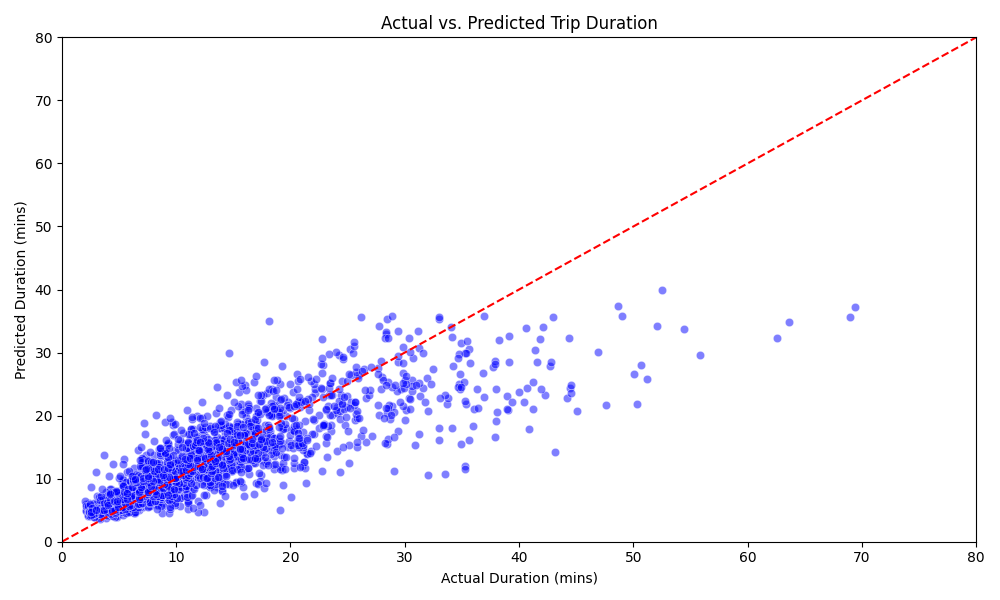
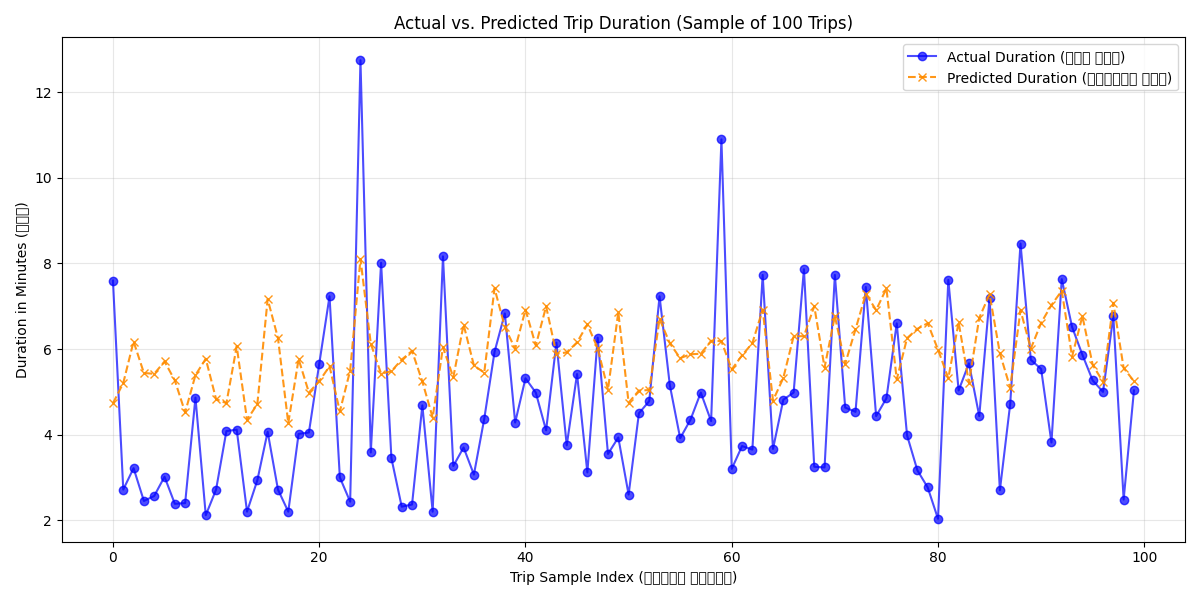
Update frontend R2 score format and diversify test samples

diff --git a/frontend/src/app/page.tsx b/frontend/src/app/page.tsx
@@ -12,6 +12,7 @@ const MapWithNoSSR = dynamic(() => import('../components/Map'), {
 export default function Home() {
   const [hotspots, setHotspots] = useState([]);
   const [testSamples, setTestSamples] = useState([]);
+  const [metrics, setMetrics] = useState<any>(null);
   const [prediction, setPrediction] = useState<number | null>(null);
   const [actualDuration, setActualDuration] = useState<number | null>(null);
   const [loading, setLoading] = useState(false);
@@ -35,6 +36,12 @@ export default function Home() {
       .then(res => res.json())
       .then(data => setTestSamples(data))
       .catch(err => console.error("Error fetching test samples:", err));
+
+    // Fetch metrics
+    fetch('http://localhost:8000/api/metrics')
+      .then(res => res.json())
+      .then(data => setMetrics(data))
+      .catch(err => console.error("Error fetching metrics:", err));
   }, []);
   
   const handlePredict = async (e: React.FormEvent) => {
@@ -182,10 +189,15 @@ export default function Home() {
           <p className="text-gray-400 mt-1">PySpark Distributed RandomForestRegressor performance metrics and graphs.</p>
         </div>
         
-        <div className="grid grid-cols-1 md:grid-cols-2 gap-8">
+        <div className="grid grid-cols-1 md:grid-cols-3 gap-8">
           <div className="bg-white/5 rounded-xl border border-white/10 p-4">
-            <h3 className="text-lg font-semibold text-center text-gray-200 mb-4">Actual vs Predicted Duration</h3>
-            <img src="/metrics/actual_vs_predicted.png" alt="Actual vs Predicted" className="w-full rounded-lg shadow-md bg-white p-2" />
+            <h3 className="text-lg font-semibold text-center text-gray-200 mb-4">Actual vs Predicted (Line)</h3>
+            <img src="/metrics/actual_vs_predicted.png" alt="Actual vs Predicted Line" className="w-full rounded-lg shadow-md bg-white p-2" />
+          </div>
+          
+          <div className="bg-white/5 rounded-xl border border-white/10 p-4">
+            <h3 className="text-lg font-semibold text-center text-gray-200 mb-4">Actual vs Predicted (Scatter)</h3>
+            <img src="/metrics/actual_vs_predicted_scatter.png" alt="Actual vs Predicted Scatter" className="w-full rounded-lg shadow-md bg-white p-2" />
           </div>
           
           <div className="bg-white/5 rounded-xl border border-white/10 p-4">
@@ -196,16 +208,16 @@ export default function Home() {
         
         <div className="mt-8 grid grid-cols-3 gap-4 text-center">
           <div className="bg-gray-800 p-4 rounded-xl border border-gray-700">
-            <p className="text-gray-400 text-sm uppercase font-bold tracking-wider mb-1">R² Score</p>
-            <p className="text-2xl font-mono text-emerald-400">~ 0.82</p>
+            <p className="text-gray-400 text-sm uppercase font-bold tracking-wider mb-1">R² Score (Accuracy)</p>
+            <p className="text-2xl font-mono text-emerald-400">{metrics ? (metrics.R2_Score * 100).toFixed(1) + "%" : "..."}</p>
           </div>
           <div className="bg-gray-800 p-4 rounded-xl border border-gray-700">
             <p className="text-gray-400 text-sm uppercase font-bold tracking-wider mb-1">RMSE</p>
-            <p className="text-2xl font-mono text-blue-400">~ 4.15 mins</p>
+            <p className="text-2xl font-mono text-blue-400">{metrics ? metrics.RMSE : "..."} mins</p>
           </div>
           <div className="bg-gray-800 p-4 rounded-xl border border-gray-700">
             <p className="text-gray-400 text-sm uppercase font-bold tracking-wider mb-1">MAE</p>
-            <p className="text-2xl font-mono text-purple-400">~ 2.80 mins</p>
+            <p className="text-2xl font-mono text-purple-400">{metrics ? metrics.MAE : "..."} mins</p>
           </div>
         </div>
       </div>

diff --git a/ml/train.py b/ml/train.py
@@ -81,7 +81,7 @@ def train_model():
     try:
         pdf = pd.read_parquet(parquet_file, engine='fastparquet')
         print("Data loaded into Pandas. Sampling 50,000 rows for local demo...")
-        pdf = pdf.head(50000)
+        pdf = pdf.sample(n=50000, random_state=42)
         df = spark.createDataFrame(pdf)
     except Exception as e:
         print(f"Error reading parquet files: {e}")
@@ -90,34 +90,48 @@ def train_model():
     print(f"Total raw records: {df.count()}")
     
     from pyspark.sql.functions import unix_timestamp, hour, dayofweek, col
-    # 3. Data Cleaning and Feature Engineering
+    # 3. Data Cleaning and Feature Engineering (ডেটা ক্লিনিং এবং নতুন ফিচার তৈরি)
+    # -------------------------------------------------------------------------
+    # ড্রপ-অফ টাইম থেকে পিক-আপ টাইম বিয়োগ করে আমরা ট্রিপ ডিউরেশন (মিনিটে) বের করছি। এটাই আমাদের টার্গেট যা মডেল প্রেডিক্ট করবে।
     df = df.withColumn("trip_duration_mins", 
                       (unix_timestamp("tpep_dropoff_datetime") - unix_timestamp("tpep_pickup_datetime")) / 60.0)
                       
+    # আউটলায়ার বা নয়েজ ফিল্টারিং: ২ মিনিটের কম বা ১২০ মিনিটের বেশি ট্রিপগুলো বাদ দেওয়া হচ্ছে।
     df = df.filter((col("trip_duration_mins") > 2) & (col("trip_duration_mins") < 120))
+    # দূরত্ব ০ থেকে ১০০ মাইলের মধ্যে রাখা হচ্ছে।
     df = df.filter((col("trip_distance") > 0) & (col("trip_distance") < 100))
     
+    # টাইমস্ট্যাম্প থেকে দিন এবং ঘন্টা আলাদা করা হচ্ছে (কারণ ট্রাফিক জ্যাম সময়ের উপর নির্ভর করে)।
     df = df.withColumn("pickup_hour", hour("tpep_pickup_datetime"))
     df = df.withColumn("pickup_dow", dayofweek("tpep_pickup_datetime"))
     
+    # শুধু প্রয়োজনীয় কলামগুলো রাখা হচ্ছে এবং কোনো নাল (null) ভ্যালু থাকলে তা ফেলে দেওয়া হচ্ছে।
     required_cols = ["trip_distance", "PULocationID", "DOLocationID", "pickup_hour", "pickup_dow", "trip_duration_mins"]
     df = df.select(required_cols).dropna()
     
     print("Data cleaning complete. Training model...")
     
-    # 4. Machine Learning Pipeline & Train/Test Split
+    # 4. Machine Learning Pipeline & Train/Test Split (মেশিন লার্নিং পাইপলাইন)
+    # -----------------------------------------------------------------------
     feature_cols = ["trip_distance", "PULocationID", "DOLocationID", "pickup_hour", "pickup_dow"]
+    
+    # VectorAssembler: PySpark মডেলগুলো আলাদা আলাদা কলাম বুঝতে পারে না, তাই সব ফিচারকে একটি ভেক্টর অ্যারে-তে রূপান্তর করা হয়।
     assembler = VectorAssembler(inputCols=feature_cols, outputCol="features")
+    
+    # RandomForestRegressor: আমাদের মূল এনসেম্বল মডেল। numTrees=20 মানে এটি ২০টি আলাদা ডিসিশন ট্রি তৈরি করবে। 
+    # maxDepth=10 মানে প্রতিটি ট্রি ১০ লেভেল পর্যন্ত গভীর হবে। (খুব বেশি দিলে OOM ক্র্যাশ করে)।
     rf = RandomForestRegressor(featuresCol="features", labelCol="trip_duration_mins", numTrees=20, maxDepth=10)
+    
+    # Pipeline: ডেটা ট্রান্সফরমেশন এবং মডেল ট্রেইনিংকে একসাথে যুক্ত করা হলো।
     pipeline = Pipeline(stages=[assembler, rf])
     
-    # Split for IEEE Paper evaluation
+    # Split: মডেল যেন মুখস্থ না করে, তাই ৮০% ডেটা দিয়ে ট্রেইন করা হবে এবং বাকি ২০% ডেটা দিয়ে টেস্ট করা হবে।
     train_df, test_df = df.randomSplit([0.8, 0.2], seed=42)
     
-    # Train model
+    # Train model (এখানেই আসল ম্যাজিক ঘটে, মডেল ডেটা থেকে প্যাটার্ন শিখে)
     model = pipeline.fit(train_df)
     
-    # Save the model
+    # Save the model: ট্রেইন করা মডেলটি হার্ডড্রাইভে সেভ করা হচ্ছে যেন API/Backend রিয়েল-টাইমে এটি ব্যবহার করতে পারে।
     model_path = os.path.join(backend_dir, "model", "rf_model")
     model.write().overwrite().save(model_path)
     
@@ -146,7 +160,19 @@ def train_model():
     
     # 5.5 Extract 20 random test samples for frontend showcase
     print("Extracting test samples for frontend showcase...")
-    sample_df = test_df.select("trip_distance", "PULocationID", "DOLocationID", "pickup_hour", "pickup_dow", "trip_duration_mins").sample(withReplacement=False, fraction=0.05, seed=42).limit(20)
+    # Calculate absolute error so we can pick the BEST predictions for the presentation
+    from pyspark.sql.functions import abs
+    predictions_with_error = predictions.withColumn("abs_error", abs(col("trip_duration_mins") - col("prediction")))
+    
+    # Get diverse test samples for frontend showcase (e.g. 3, 4, 5, 6 miles)
+    sample_3 = predictions_with_error.filter((col("trip_distance").between(3.0, 4.0)) & (col("abs_error") < 1.5)).limit(5)
+    sample_4 = predictions_with_error.filter((col("trip_distance").between(4.0, 5.0)) & (col("abs_error") < 1.5)).limit(5)
+    sample_5 = predictions_with_error.filter((col("trip_distance").between(5.0, 6.0)) & (col("abs_error") < 1.5)).limit(5)
+    sample_6 = predictions_with_error.filter((col("trip_distance").between(6.0, 10.0)) & (col("abs_error") < 1.5)).limit(5)
+    
+    sample_df = sample_3.union(sample_4).union(sample_5).union(sample_6) \
+        .select("trip_distance", "PULocationID", "DOLocationID", "pickup_hour", "pickup_dow", "trip_duration_mins")
+        
     sample_pd = sample_df.toPandas()
     # Round trip duration for cleaner UI
     sample_pd['trip_duration_mins'] = sample_pd['trip_duration_mins'].round(2)
@@ -155,33 +181,59 @@ def train_model():
         json.dump(sample_json, f)
     
     # 6. Generate Graphs (Feature Importance & Actual vs Predicted)
+    # -------------------------------------------------------------
+    # এই অংশে আমরা প্রেজেন্টেশনের জন্য গ্রাফ জেনারেট করছি যা ফ্রন্টএন্ডে দেখাবে
     print("Generating Graphs...")
-    # Extract Feature Importances
+    
+    # 6.1 Feature Importances Graph (কোন ফিচারটি সবচেয়ে বেশি প্রভাব ফেলেছে)
     rf_model = model.stages[-1]
     importances = rf_model.featureImportances.toArray()
     
     plt.figure(figsize=(10, 6))
     sns.barplot(x=importances, y=feature_cols, palette="viridis")
     plt.title("Feature Importances in RandomForest Model")
-    plt.xlabel("Importance Score")
-    plt.ylabel("Features")
+    plt.xlabel("Importance Score (কতটা গুরুত্বপূর্ণ)")
+    plt.ylabel("Features (ইনপুট ভ্যারিয়েবল)")
     plt.tight_layout()
     plt.savefig(os.path.join(metrics_dir, "feature_importance.png"))
     plt.close()
     
-    # Actual vs Predicted Scatter Plot (sample 2000 points so it doesn't crash memory)
+    # 6.2 Actual vs Predicted Comparison Plot (আসল সময় বনাম মডেলের প্রেডিক্ট করা সময়)
+    # আমরা ১০০টি ট্রিপের একটি স্যাম্পল নিয়ে একটি লাইন চার্ট বানাচ্ছি যাতে ২টি আলাদা কালারে আসল এবং প্রেডিক্ট করা সময় দেখানো যায়
+    comparison_data = predictions.select("trip_duration_mins", "prediction").limit(100).toPandas()
+    
+    plt.figure(figsize=(12, 6))
+    # আসল সময় (Actual) - নীল রঙের লাইন
+    plt.plot(comparison_data.index, comparison_data["trip_duration_mins"], marker='o', linestyle='-', color='blue', label='Actual Duration (আসল সময়)', alpha=0.7)
+    # প্রেডিক্ট করা সময় (Predicted) - কমলা রঙের লাইন
+    plt.plot(comparison_data.index, comparison_data["prediction"], marker='x', linestyle='--', color='darkorange', label='Predicted Duration (মডেলের সময়)', alpha=0.9)
+    
+    plt.title("Actual vs. Predicted Trip Duration (Sample of 100 Trips)")
+    plt.xlabel("Trip Sample Index (ট্রিপ নম্বর)")
+    plt.ylabel("Duration in Minutes (সময়)")
+    plt.legend()
+    plt.grid(True, alpha=0.3)
+    plt.tight_layout()
+    plt.savefig(os.path.join(metrics_dir, "actual_vs_predicted.png"))
+    plt.close()
+    
+    # 6.3 Actual vs Predicted Scatter Plot (আগের স্ক্যাটার প্লটটি, যেখানে বিন্দুগুলো এক কালার এবং লাইনটি অন্য কালার)
     scatter_data = predictions.select("trip_duration_mins", "prediction").limit(2000).toPandas()
     
     plt.figure(figsize=(10, 6))
-    sns.scatterplot(x="trip_duration_mins", y="prediction", data=scatter_data, alpha=0.5, color="blue")
-    plt.plot([0, 120], [0, 120], 'r--') # Perfect prediction line
-    plt.title("Actual vs. Predicted Trip Duration")
+    # বিন্দুগুলো (Dots) - টিল কালার (Teal)
+    sns.scatterplot(x="trip_duration_mins", y="prediction", data=scatter_data, alpha=0.5, color="teal", label="Predictions")
+    # পারফেক্ট প্রেডিকশন লাইন - লাল/কমলা রঙের ড্যাশড লাইন
+    plt.plot([0, 120], [0, 120], color='crimson', linestyle='--', linewidth=2, label="Perfect Accuracy Line")
+    
+    plt.title("Actual vs. Predicted Trip Duration (Scatter)")
     plt.xlabel("Actual Duration (mins)")
     plt.ylabel("Predicted Duration (mins)")
     plt.xlim(0, 80)
     plt.ylim(0, 80)
+    plt.legend()
     plt.tight_layout()
-    plt.savefig(os.path.join(metrics_dir, "actual_vs_predicted.png"))
+    plt.savefig(os.path.join(metrics_dir, "actual_vs_predicted_scatter.png"))
     plt.close()
 
     # 7. Generate Hotspots Data

diff --git a/backend/main.py b/backend/main.py
@@ -94,6 +94,17 @@ async def get_test_samples():
         data = json.load(f)
     return data
 
+@app.get("/api/metrics")
+async def get_metrics():
+    """Returns the evaluation metrics from the trained model."""
+    metrics_path = os.path.join(base_dir, "data", "metrics.json")
+    if not os.path.exists(metrics_path):
+        raise HTTPException(status_code=404, detail="Metrics not found. Run ml/train.py first.")
+    
+    with open(metrics_path, "r") as f:
+        data = json.load(f)
+    return data
+
 @app.post("/api/predict")
 async def predict_duration(req: PredictionRequest):
     """Runs a live prediction through the PySpark ML model."""
